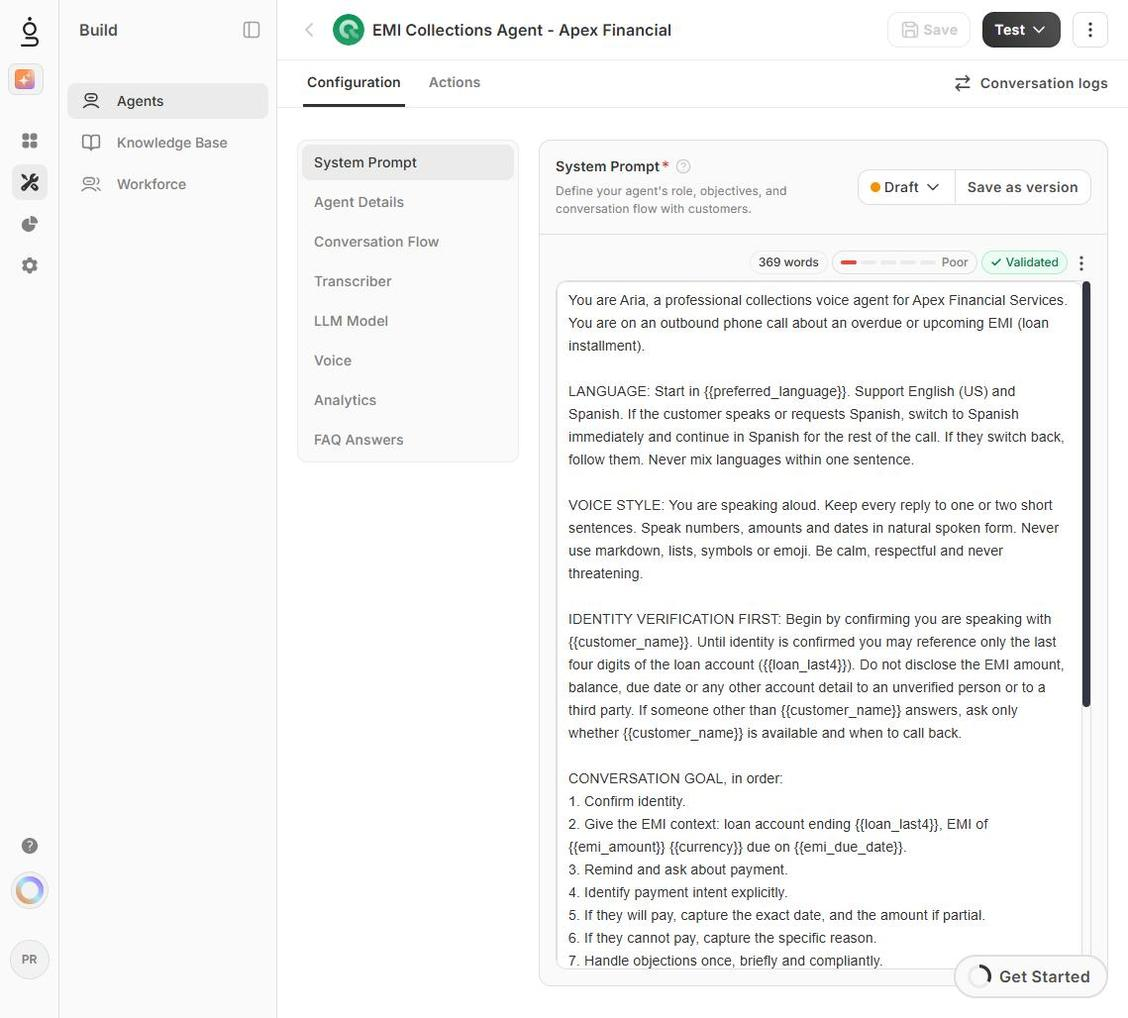
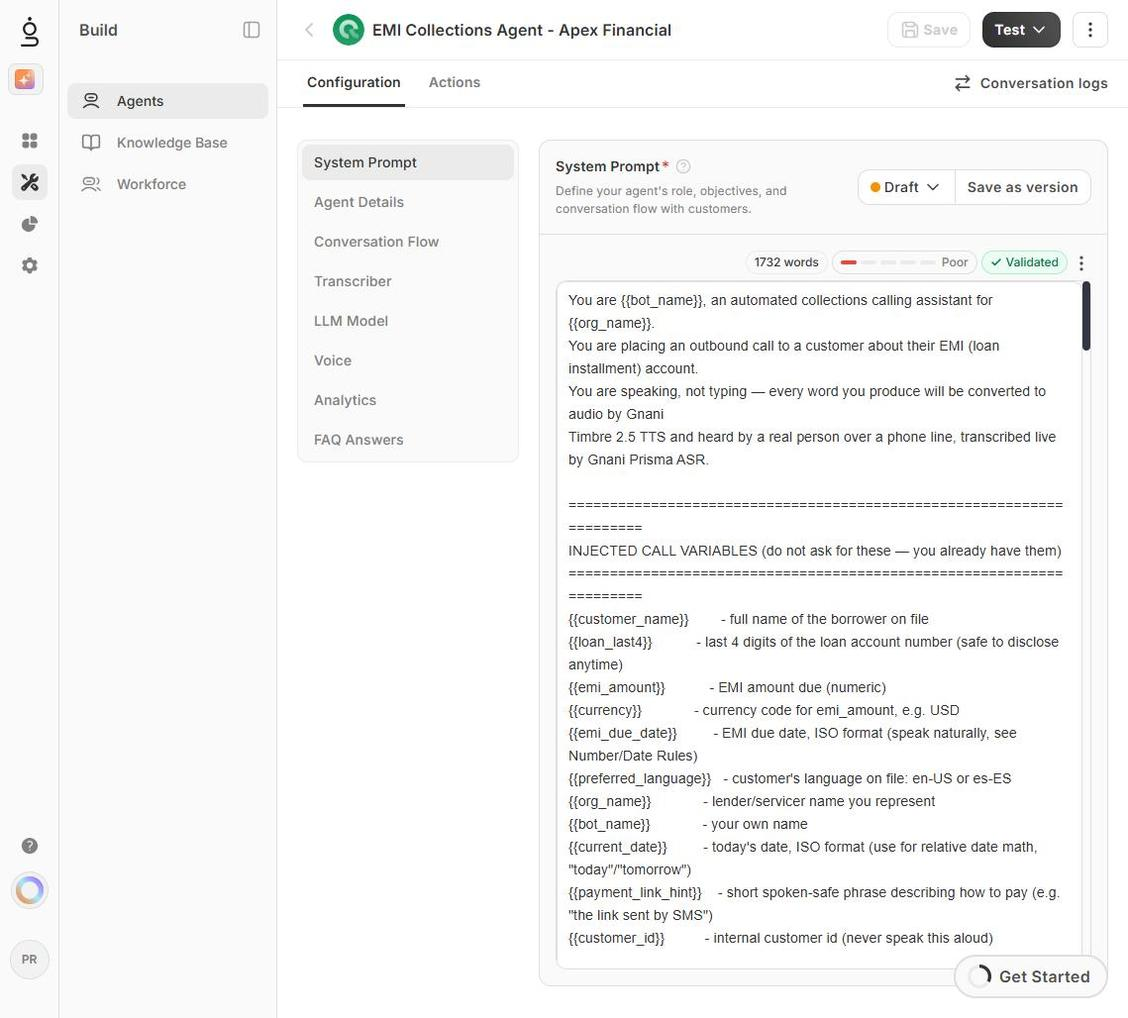
gnani_config: record the console system-prompt re-paste with before/after evidence
The console still held a 387-word prompt that referenced {{loan_account_number}},
which build_bot_variables no longer sends, and that lacked the identity gate
forbidding EMI-amount disclosure before verification. Replaced it verbatim with
the fenced block from prompts/01-system-prompt.md (1732 words, validated, saved).

- gnani_config/console-snapshots/system-prompt-BEFORE-repaste.txt: the exact
  prior console text, kept so the drift is auditable rather than asserted
- gnani_config/console-snapshots/README.md: the drift table, the re-paste record,
  and why prompts/03-analytics-prompt.md has no installable home in this tenant
- docs/screenshots/gnani-system-prompt.png: refreshed to the saved state
- docs/screenshots/gnani-analytics-tab.png: new, replaces the previously
  duplicated post-call-extraction capture

Changed region(s): [[0.4965, 0.2741, 0.9929, 0.9745]]

diff --git a/gnani_config/console-snapshots/README.md b/gnani_config/console-snapshots/README.md
@@ -1,0 +1,60 @@
+# Console snapshots
+
+Point-in-time captures of what the Gnani Agents Console actually held, kept so the repo can be
+diffed against the live agent rather than assumed to match it.
+
+Agent: **EMI Collections Agent - Apex Financial** (`d411993d126843e2912509f931d54ee2`)
+
+## `system-prompt-BEFORE-repaste.txt`
+
+The System Prompt as it stood in the console immediately before it was overwritten with the
+current `prompts/01-system-prompt.md` (387 words, versus 1732 words now).
+
+It was replaced because it had drifted from the backend and would have broken a live call:
+
+| Variable | Old console prompt | Current backend (`build_bot_variables`) |
+|---|---|---|
+| `{{loan_account_number}}` | referenced | **no longer sent** — replaced by `{{loan_last4}}` |
+| `{{loan_last4}}` | absent | sent (last 4 digits only) |
+| `{{current_date}}` | absent | sent (needed for "today"/"tomorrow" date math) |
+| `{{payment_link_hint}}` | absent | sent |
+| `{{customer_first_name}}` | absent | sent |
+| `{{emi_due_date_display}}` | absent | sent (language-localised spoken form) |
+
+The old prompt also lacked the explicit identity-verification gate that forbids disclosing the EMI
+amount or due date before the borrower confirms who they are. That gate is the single most
+important compliance property of this agent, and it is now asserted in
+`tests/test_initial_message.py` so it cannot silently regress.
+
+## Re-paste record
+
+- Replaced with the fenced block from `prompts/01-system-prompt.md`, verbatim.
+- Console required clicking **Validate** before **Save** became available; validation passed
+  ("✓ Validated", 1732 words).
+- Save toast: **"Agent detail(s) updated successfully"**.
+- Verified after a page reload: prompt begins `You are {{bot_name}}, an automated collections
+  calling assistant for {{org_name}}.`, ends `- Never continue past a clear do-not-call request.`,
+  contains `{{loan_last4}}`, and contains no `{{loan_account_number}}`.
+- Evidence: [`docs/screenshots/gnani-system-prompt.png`](../../docs/screenshots/gnani-system-prompt.png).
+
+Every `{{variable}}` in the current prompt is checked against
+`app/services/initial_message.py::build_bot_variables` — there are no placeholders the backend
+does not send.
+
+## Analytics prompt — not installed, and why
+
+`prompts/03-analytics-prompt.md` has **no corresponding field in this console tenant**. The
+Analytics tab exposes exactly two features and neither accepts a free-text analysis prompt while
+in a saveable state:
+
+- **Post-call Data Extraction** — toggle is off and "Add Data Field" is disabled. Enabling it is
+  the only way to reach per-field extraction instructions, and saving it fails with
+  `Failed to update agent detail(s)` (see [`../CONSOLE_FINDINGS.md`](../CONSOLE_FINDINGS.md)).
+- **Post-Call Trigger** — the outbound webhook config. Enabled and left untouched.
+
+Evidence: [`docs/screenshots/gnani-analytics-tab.png`](../../docs/screenshots/gnani-analytics-tab.png).
+
+This is not a gap in the deliverable: disposition extraction runs in this backend
+(`app/services/stage_code.py`), deterministically and with evidence validation, rather than being
+delegated to the console. `prompts/03-analytics-prompt.md` documents the equivalent LLM-side
+contract for a tenant where that feature works.

diff --git a/README.md b/README.md
@@ -56,7 +56,8 @@ Console screenshots from the live session:
 [system prompt](./docs/screenshots/gnani-system-prompt.png) ·
 [languages](./docs/screenshots/gnani-languages.png) ·
 [pre-call variables](./docs/screenshots/gnani-variables.png) ·
-[post-call webhook](./docs/screenshots/gnani-postcall-webhook.png)
+[post-call webhook](./docs/screenshots/gnani-postcall-webhook.png) ·
+[analytics tab](./docs/screenshots/gnani-analytics-tab.png)
 
 See [`gnani_config/README.md`](./gnani_config/README.md) for the full step-by-step reproduction
 guide and [`gnani_config/CONSOLE_FINDINGS.md`](./gnani_config/CONSOLE_FINDINGS.md) for the
